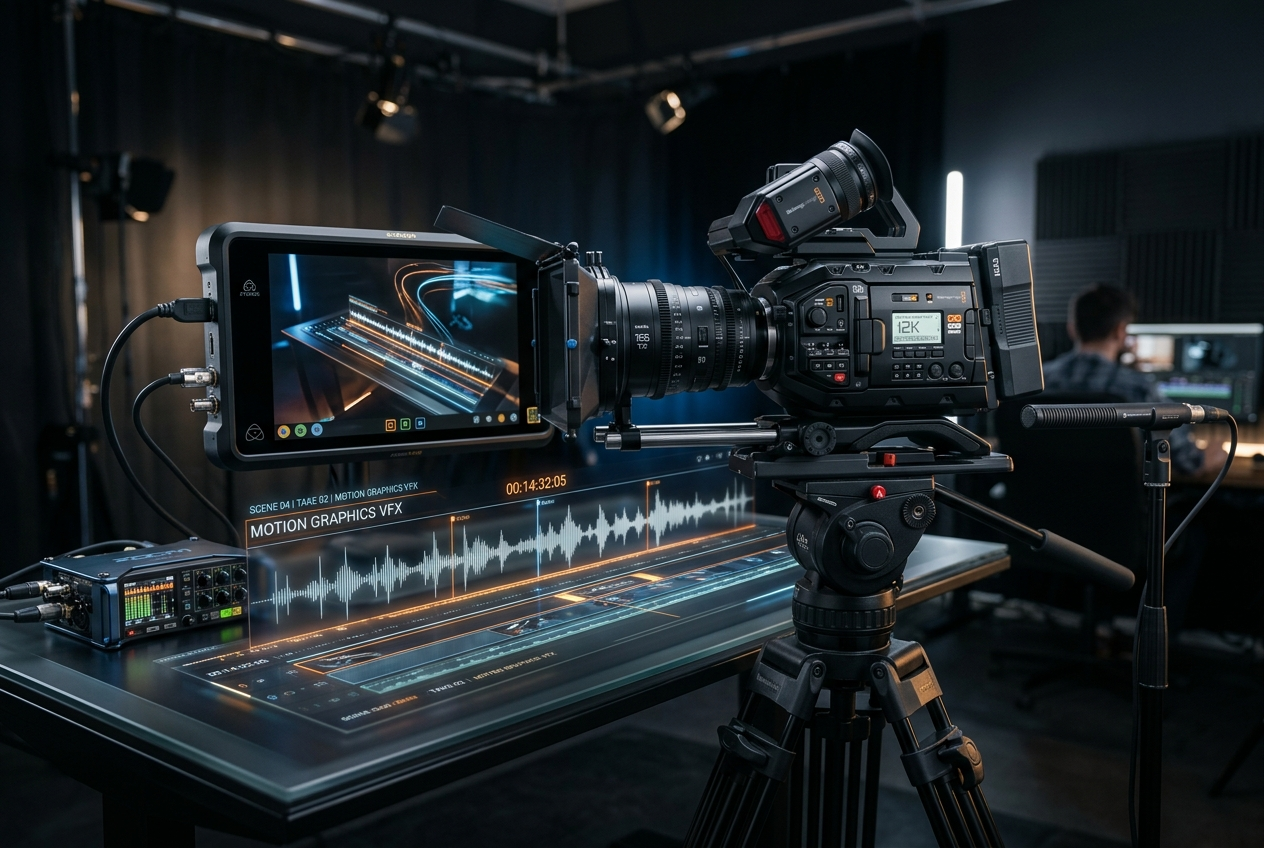
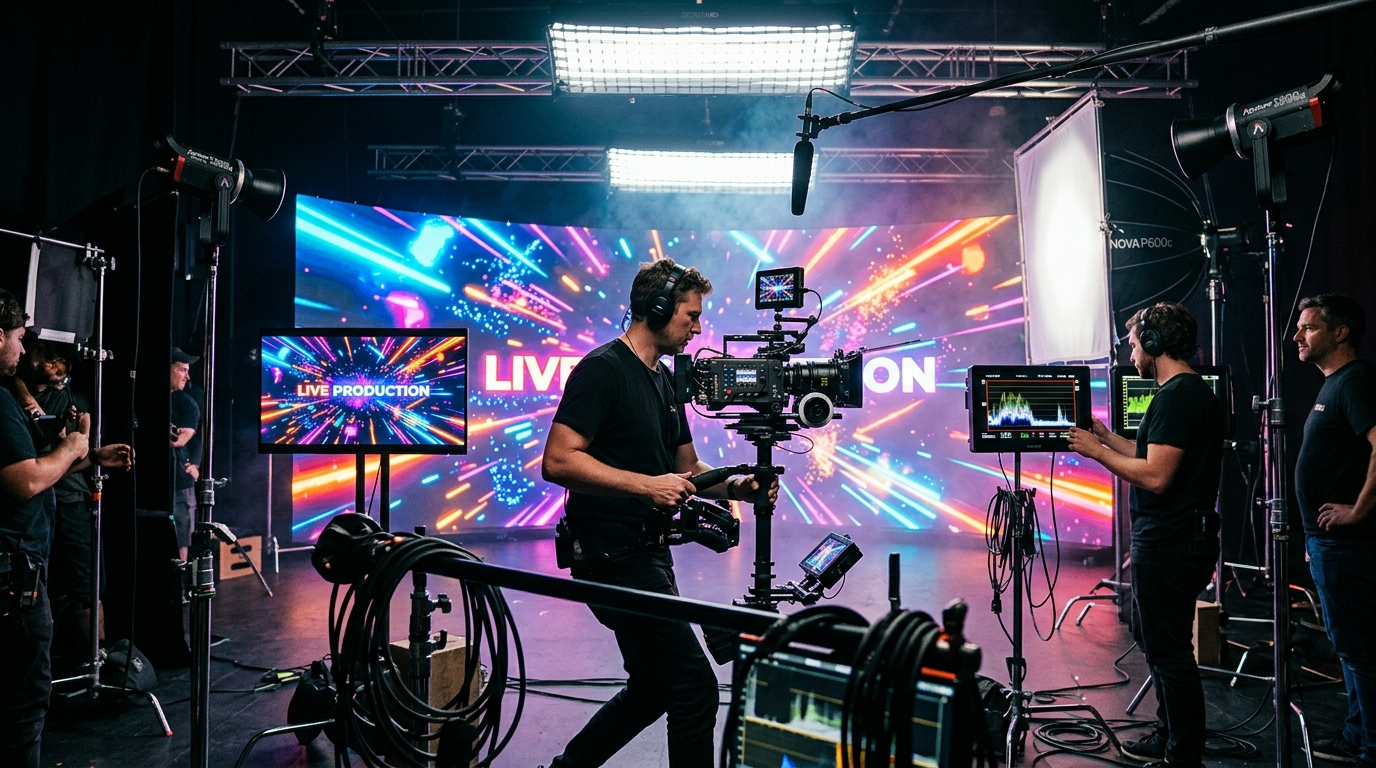
Add hero images and update Projects component for highlights

diff --git a/src/components/Projects.tsx b/src/components/Projects.tsx
@@ -1,18 +1,18 @@
 "use client";
 
-import { useRef, useEffect } from 'react';
-
-// Hero images are served from the public folder
-const HERO_IMAGES = [
-  "/highlights/brand_identity.jpg",
-  "/highlights/social_media.jpg",
-  "/highlights/video_production.jpg",
-];
-
-
+// Hero images enabled and paint icon removed
+import { useEffect, useRef } from "react";
+import { ExternalLink } from "lucide-react";
+import "./Projects.css";
+import brandImg from "../assets/highlights/brand_identity.jpg";
+import socialImg from "../assets/highlights/social_media.jpg";
+import videoImg from "../assets/highlights/video_production.jpg";
+import freelanceImg from "../assets/highlights/freelance_creative_works.jpg";
 
 const BehanceIcon = () => (
-  <svg viewBox="0 0 24 24" width="18" height="18" fill="currentColor"><path d="M22 7h-7V5h7v2zm1.726 10c-.442 1.297-2.029 3-5.101 3-3.074 0-5.564-1.729-5.564-5.675 0-3.91 2.325-5.92 5.466-5.92 3.082 0 4.964 1.782 5.375 4.426.078.506.109 1.188.095 2.14H15.97c.13 3.211 3.483 3.312 4.588 2.029h3.168zm-7.686-4h4.965c-.105-1.547-1.136-2.219-2.477-2.219-1.466 0-2.277.768-2.488 2.219zm-9.574 6.988H0V5.021h6.953c5.476.081 5.58 5.444 2.72 6.906 3.461 1.26 3.577 8.061-3.207 8.061zM3 11h3.584c2.508 0 2.906-3-.312-3H3v3zm3.391 3H3v3.016h3.341c3.055 0 2.868-3.016.05-3.016z"/></svg>
+  <svg viewBox="0 0 24 24" width="18" height="18" fill="currentColor">
+    <path d="M22 7h-7V5h7v2zm1.726 10c-.442 1.297-2.029 3-5.101 3-3.074 0-5.564-1.729-5.564-5.675 0-3.91 2.325-5.92 5.466-5.92 3.082 0 4.964 1.782 5.375 4.426.078.506.109 1.188.095 2.14H15.97c.13 3.211 3.483 3.312 4.588 2.029h3.168zm-7.686-4h4.965c-.105-1.547-1.136-2.219-2.477-2.219-1.466 0-2.277.768-2.488 2.219zm-9.574 6.988H0V5.021h6.953c5.476.081 5.58 5.444 2.72 6.906 3.461 1.26 3.577 8.061-3.207 8.061zM3 11h3.584c2.508 0 2.906-3-.312-3H3v3zm3.391 3H3v3.016h3.341c3.055 0 2.868-3.016.05-3.016z"/>
+  </svg>
 );
 
 const PROJECTS_DATA = [
@@ -46,7 +46,12 @@ const PROJECTS_DATA = [
   },
 ];
 
-
+const HERO_IMAGES = [
+  brandImg,
+  socialImg,
+  videoImg,
+  freelanceImg,
+];
 
 export default function Projects() {
   const sectionRef = useRef<HTMLDivElement>(null);
@@ -73,48 +78,29 @@ export default function Projects() {
     <section id="projects" className="section" ref={sectionRef}>
       <div className="section-content">
         <div className="reveal-on-scroll">
-          <h2 className="section-title">
-              Portfolio Highlights
-          </h2>
+          <h2 className="section-title">Portfolio Highlights</h2>
         </div>
-
         <div className="projects-grid reveal-on-scroll">
           {PROJECTS_DATA.map((project, idx) => (
             <div key={idx} className="project-card glass-panel">
-              {/* Project Preview visual banner */}
               <div className="project-preview-banner" style={{
-                  backgroundImage: `url(${HERO_IMAGES[idx] || project.gradient})`,
-                  backgroundSize: 'cover',
-                  backgroundPosition: 'center',
-                  backgroundRepeat: 'no-repeat',
-                }}>
+                backgroundImage: `url(${HERO_IMAGES[idx] || project.gradient})`,
+                backgroundSize: "cover",
+                backgroundPosition: "center",
+                backgroundRepeat: "no-repeat",
+              }}>
                 <div className="preview-mesh"></div>
-  
               </div>
-
-              {/* Project content */}
               <div className="project-info-block">
                 <h3 className="project-card-title">{project.title}</h3>
                 <p className="project-card-desc">{project.desc}</p>
-
-                {/* Tech Tags */}
                 <div className="project-tech-tags">
                   {project.tech.map((t, i) => (
-                    <span key={i} className="tech-badge">
-                      {t}
-                    </span>
+                    <span key={i} className="tech-badge">{t}</span>
                   ))}
                 </div>
-
-                {/* Links Footer */}
                 <div className="project-links">
-                  <a
-                    href={project.demoUrl}
-                    target="_blank"
-                    rel="noopener noreferrer"
-                    className="project-link-btn primary-style"
-                    title="View on Behance"
-                  >
+                  <a href={project.demoUrl} target="_blank" rel="noopener noreferrer" className="project-link-btn primary-style" title="View on Behance">
                     <BehanceIcon />
                     <span>View on Behance</span>
                   </a>
